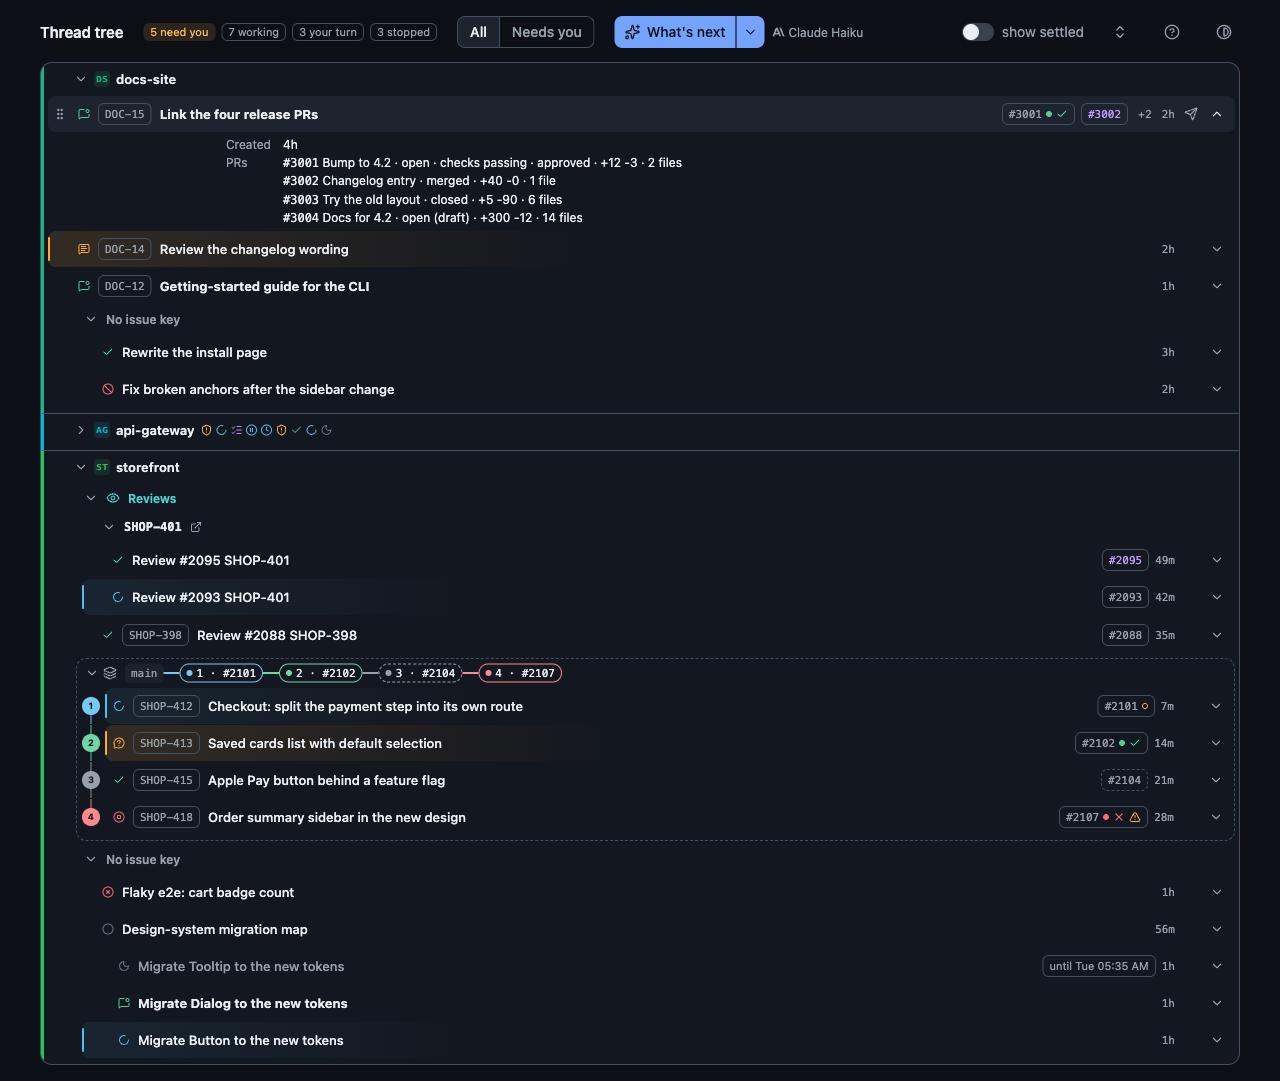
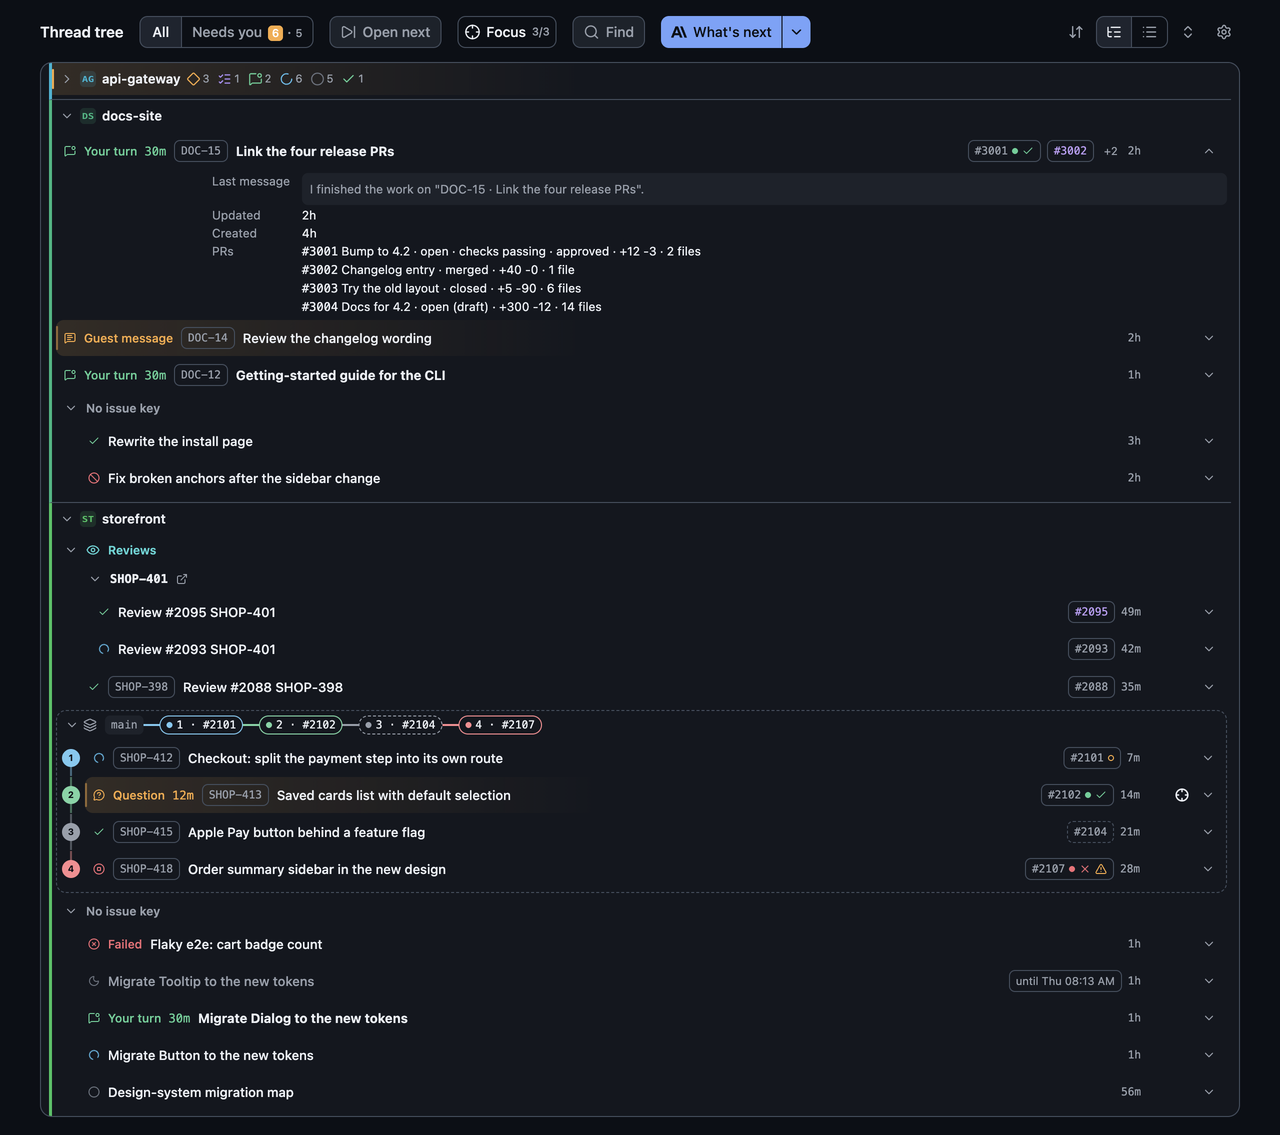
docs: retake README screenshots and name the Settings panel

diff --git a/README.md b/README.md
@@ -8,7 +8,7 @@ T3 Code shows threads as a flat list. When agents launch threads, review PRs and
 
 Use it as a Mac app or in a browser. The Mac app adds a Dock badge, notifications and a menu-bar entry for the threads that need you.
 
-![The thread tree in light mode](docs/tree-light.png)
+![The thread tree in light mode, with three threads in the Focus list](docs/tree-light.png)
 
 ![The thread tree in dark mode, with one project closed and one details block open](docs/tree-dark.png)
 
@@ -18,14 +18,14 @@ _Screenshots use made-up data from `bun run demo`._
 
 - **All projects in one list.** Each project is a block with its name on one header line above its threads, so you see all projects at once. Long thread titles wrap and are never cut, also on a phone. The project has the same icon and color as in T3 Code: two letters on a colored square, and the block has a left edge in that color. Hover the name to see the repository (`owner/name`). Threads group by the first issue key in the title (`SHOP-412`, `API-81`, …). A key group with one thread folds into its row, which shows the key as a chip. Review threads (`Review #…`) go in their own Reviews group. This group always sits at the top of the project, with an eye icon and a teal label, so you find it fast. A closed project or tree group with five or more threads shows a count for each status instead of one icon for each thread. Hover the counts to read them as words.
 - **Header stays in view.** The header stays at the top of the window, and only the list below it scrolls. The header line of the project you scroll through stays at the top of the list.
-- **Launch lineage.** The details block of a thread that an agent launched shows "Launched by" with a link to the thread that launched it. Turn on "Nest launched threads" in the "View" panel to show a launched thread with no issue key under that thread instead of in "No issue key". It is off by default. A thread in a PR stack stays in its stack. T3 does not store this link, so the app reads it from T3's local database.
+- **Launch lineage.** The details block of a thread that an agent launched shows "Launched by" with a link to the thread that launched it. Turn on "Nest launched threads" in the Settings panel to show a launched thread with no issue key under that thread instead of in "No issue key". It is off by default. A thread in a PR stack stays in its stack. T3 does not store this link, so the app reads it from T3's local database.
 - **PR stacks.** Issue groups that share a stack sit together in one block. Its header is a line from the base branch to the top PR, with one stop for each PR, for example `main ─ 1 · #2101 ─ 2 · #2102`. Click a stop to open the PR. Below the header, the threads sit on a numbered line, one number for each stack position. A red stop means failing checks, a conflict or requested changes, green means approved, grey means draft and blue means open. When the tree does not show all PRs of a stack, for example under a filter, each stop shows its position in the whole stack, such as `2 of 4 · #2102`. Click the chevron to fold the block to its header.
 - **PR marks.** Each row shows its first two PRs. A PR chip shows checks (dot or ring), review (check or cross), conflicts (warning), draft (dashed border), merged (violet) and closed (struck through).
 - **Your own order.** Drag the handle on the left edge of a project, group or thread row to move it in its list (only in "Manual" sort; the Flat view has its own order), or use Space and the arrow keys. The handle shows when the pointer is on the row. A row moves out of the way as soon as the dragged row enters it a little, also when the row is tall. A PR stack moves as one block. The order stays after a reload, and "Reset order" clears it.
 - **Sort by last updated.** The sort button in the header opens a menu: "Manual" or "Last updated". "Last updated" puts the thread with the newest run start or run end first. Subthreads count for their parent. Projects keep their order. Reviews stays first and "No issue key" stays last. A PR stack moves as one block. Subthreads keep their order. Drag is off. When a run starts or ends, the rows slide to their new place. With reduced motion, they move at once. The choice stays after a reload.
 - **Focus list.** The "Focus" button in the header shows or hides a strip of up to three threads above the tree. It shows how many threads are in the list, for example `2/3`. Add a thread with the crosshair button in its row, with the crosshair button of an Action in the "What's next" brief, or drag the row by its handle onto an empty slot. Drop a row on a filled card to replace it: the card asks first. Each card shows the status, the wait, the title, an "Open" link and "Show in tree", which scrolls to the row and flashes it. "Show in tree" opens the folds on the way to the row first. When the filter hides the row, the button says so. The list holds three threads, so at three the add buttons are disabled. A thread that settles or is deleted leaves the list. The list and the strip choice stay after a reload.
 - **Find.** The "Find" button in the header, or Cmd+K (Ctrl+K off macOS), opens a search for any loaded thread. Type words to match the title, the issue key, the project, the branch or a PR number. Every word must match. Matches in the issue key or at the start of the title come first. Press Enter or click a result to open the thread in T3 Code. Press Shift+Enter, or click the locate button in the row, to close the search, open the folds on the way and scroll to the row. A thread that the filter or the snooze setting hides has no locate button. With no query, the search lists your Focus threads and the latest updated threads. When "Show settled threads" is off, "Search settled threads" adds the settled threads that match. At phone width, the search fills the screen.
-- **Keys.** `n` opens the next thread, `1` to `3` open the thread in that Focus slot, and Cmd+K (Ctrl+K off macOS) opens Find. Cmd+K works in a field too. `j` and `k` move the focus to the next or previous thread row or fold header, and the arrow keys do the same when a row or header has focus. A ring shows the focused row. Enter opens a thread or folds a header, `o` opens or closes the details of a thread or the fold of a header, `l` opens them and `h` closes them, and `s` opens Send for a thread. The focus stays on its row while the list updates, and moves to the header when its fold closes. The other keys do nothing while you type in a field, or while a dialog, a menu or the "View" panel is open. The "Keys" fold in the "View" panel lists them.
+- **Keys.** `n` opens the next thread, `1` to `3` open the thread in that Focus slot, and Cmd+K (Ctrl+K off macOS) opens Find. Cmd+K works in a field too. `j` and `k` move the focus to the next or previous thread row or fold header, and the arrow keys do the same when a row or header has focus. A ring shows the focused row. Enter opens a thread or folds a header, `o` opens or closes the details of a thread or the fold of a header, `l` opens them and `h` closes them, and `s` opens Send for a thread. The focus stays on its row while the list updates, and moves to the header when its fold closes. The other keys do nothing while you type in a field, or while a dialog, a menu or the Settings panel is open. The "Keys" fold in the Settings panel lists them.
 - **Open next.** The "Open next" button in the header opens in T3 Code the thread that has waited longest: a thread that needs input, has a plan ready or waits for your turn, settled threads left out, subthreads included. Press it again to open the next thread. After all threads were opened, it starts again at the top. A thread that starts a new wait is a target again. The key `n` does the same. The tooltip shows the status, the title and the Wait of the target. When nothing waits, the button is disabled. At phone width, the button shows its icon only. In the Mac app, the menu-bar menu starts with "Open next · <title>", which opens the same thread.
 - **Flat view.** The Tree and Flat buttons in the header switch the layout. Flat shows all threads of all projects in one list.
   - "Group by Status" sections fold. "Idle and snoozed" and "Done" start closed. A closed section keeps its count.
@@ -43,7 +43,7 @@ _Screenshots use made-up data from `bun run demo`._
 - **Rows come and go.** A new project, group or thread grows in. A removed one collapses out. A change that arrives during a drag shows at once. With reduced motion, rows appear and disappear at once.
 - **Fold all at once.** In the tree, the button in the header closes or opens all projects, groups and PR stacks. A project or group row with groups or PR stacks in it has its own button at its end (shown on hover): it closes all rows in it, or opens the row and all rows in it. The icon morphs between the two arrow pairs.
 - **Folds slide.** A project, group, PR stack or details panel slides open and shut, and its chevron turns. With reduced motion, it opens and shuts at once.
-- **Status at a glance.** Each row starts with one status icon, so the issue key and title start close to it. Each kind of status has its own icon: for example, a shield for an approval, a question bubble for a question, and a chat bubble with a dot for "your turn" (a result you did not open yet). Rows that wait on you show the phrase and the wait beside the icon, for example "Approval 12m", "Plan ready 30m" or "Your turn 30m". A failed row shows "Failed". Hover the icon to see the phrase and the elapsed time, for example "Working 12m". The details show when the thread was last updated. The "View" panel has a legend of all icons. Color is never the only sign.
+- **Status at a glance.** Each row starts with one status icon, so the issue key and title start close to it. Each kind of status has its own icon: for example, a shield for an approval, a question bubble for a question, and a chat bubble with a dot for "your turn" (a result you did not open yet). Rows that wait on you show the phrase and the wait beside the icon, for example "Approval 12m", "Plan ready 30m" or "Your turn 30m". A failed row shows "Failed". Hover the icon to see the phrase and the elapsed time, for example "Working 12m". The details show when the thread was last updated. The Settings panel has a legend of all icons. Color is never the only sign.
 
   | Color                | Statuses                                                            |
   | -------------------- | ------------------------------------------------------------------- |
@@ -58,22 +58,23 @@ _Screenshots use made-up data from `bun run demo`._
 - **Details on demand.** The chevron at the end of a row opens a details block: request, error, the end of the last message, usage limit, model, branch, worktree, launched by, goal, tags and all PRs with their checks and size.
 - **Settings panel.** The cog in the header opens Settings on the right. The tree stays visible next to it, so you see each change at once. To close the panel, click outside it, click the close button, or press Escape. Each field tells you what to type and where to find it.
   - **Updates.** In the desktop app, this group comes first. It shows the app version and the update state. The panel checks for a new version each time it opens, but not more than once in 60 s. A button updates the app in place and shows the progress.
-  - **View.** Rows that stay open: show settled threads, nest launched threads, reset the drag-and-drop order, and the theme (Light, System or Dark, as icons).
+  - **View.** Rows that stay open: show settled threads, show snoozed threads, nest launched threads, reset the drag-and-drop order, and the theme (Light, System or Dark, as icons).
   - **Setup.** Folds that stay closed until you open them. Each fold shows its state at the right: green text when it is set, yellow text with a warning sign when it is not set.
     - **T3 token.** A password field for the token, with the command that issues one. Paste a new token at any time to replace it. The app saves it and reconnects, with no restart. When the token is missing or T3 rejects it, a banner shows with a link that opens the panel with this fold open.
     - **Linear links.** Type your Linear workspace, and issue keys link to their issue. Add team keys to link only the keys of those teams.
     - **Status icons.** A legend of all icons, shown with a blue info icon.
+    - **Keys.** A list of the page keys, shown with a blue info icon.
 - **Live.** Changes arrive as T3 streams them. No polling, no reload.
 - **The page remembers your choices.** Closed projects and groups (they show one status icon per thread, and an amber wash with a breathing edge when a hidden thread needs input or has a plan ready), the filter, "show settled", "show snoozed", the folds of the flat sections and the theme stay after a reload.
-- **Settled threads on demand.** The "Show settled threads" switch in the "View" panel adds them. Archived threads never show.
-- **Snoozed threads on demand.** The "Show snoozed threads" switch in the "View" panel hides snoozed threads. A snoozed thread with a visible subthread stays, muted. The Needs-you count does not change.
+- **Settled threads on demand.** The "Show settled threads" switch in the Settings panel adds them. Archived threads never show.
+- **Snoozed threads on demand.** The "Show snoozed threads" switch in the Settings panel hides snoozed threads. A snoozed thread with a visible subthread stays, muted. The Needs-you count does not change.
 - **What's next.** A click on "What's next" shows a ranked list of next steps over the active threads, each with links to its threads. Code makes the obvious steps at once: answer a waiting agent, fix a PR with failing checks, conflicts or requested changes, and merge an approved PR. A local `claude` or `codex` CLI on a cheap model ranks the rest, and it does not run when nothing is left. A step can have a prompt that you copy with one click. It also has a send icon that opens a dialog with a thread picker, the end of the last message of the picked thread, and the editable prompt. When the picked thread waits for an approval, the dialog shows the same approval note. "Confirm send" sends the message to the thread, and the step then shows "Sent to" with the thread name. The send icon is off when no `t3` CLI is found. A step with a prompt also has a "Start thread" icon. It opens a dialog with a project picker, a title (the issue key and the step title), and the editable prompt. "Start thread" starts a new thread in that project with the prompt as its first message, and the thread then shows in the tree. This icon is also off when no `t3` CLI is found. The chevron next to the button opens a menu that selects the model. Each option shows its provider icon. The button shows the selected provider icon. The icon changes shape when you select a different provider. With reduced motion, the icon changes at once. The button shows a list icon when no provider is selected. At phone width, the button shows only its icon, and the model menu is hidden. A thread that is no longer active shows struck through.
 - **Send from a row.** Each thread row, top-level or subthread, has a send icon at its end. It shows on hover or focus, and always on touch screens. It opens the same dialog with that thread as the fixed target and an empty message. The dialog shows the end of the last message of the target thread. When the thread waits for an approval, a note says that a message does not approve the request. The icon is off when no `t3` CLI is found. The row status changes when the thread takes the message.
 - **Dock badge.** In the desktop app, the Dock icon shows how many threads need you (needs input or plan ready), the same count as the Needs-you badge in the header. Settled threads do not count, so with "show settled" on, the badge can be lower than the filter count. It updates with the window hidden, and it does not clear when you open the window.
 - **Notifications.** In the desktop app, you get a notification when a thread starts to need input, has a plan ready or fails. When 3 or more threads change at once, you get one notification, "N threads need you". A click on a thread notification opens the thread in T3 Code. A click on the summary shows the window. A new notification for a thread replaces the earlier one. Nothing is sent for the threads that already need you when the app starts, or for settled threads. "Mute Notifications" in the app menu turns them off. The badge stays on.
 - **Menu-bar entry.** The menu-bar icon shows the Needs-you count, and shows no number at 0. Its menu starts with "Open next · <title>" when a thread waits, then lists up to 10 threads, longest wait first. A click on a thread opens it in T3 Code. "+N more…" and "Open tree" show the window. "Mute Notifications" is the same switch as in the app menu. When a newer release exists, "Update available: vX.Y.Z…" shows below it, and a click offers the update. The label shows the stage while an update installs. "Quit" quits the app.
 - **Desktop window.** The tree runs in its own macOS window, which you start from Spotlight or the Dock. The app starts the server for you. Closing the window hides it, and the tree keeps running. A click on the Dock icon shows it again, and Cmd-Q quits. The window opens at its last size and place. Links to T3 Code and to PRs open outside the window.
-- **Updates.** The Mac app checks GitHub Releases at start and every 6 hours. When a newer release exists, the app menu and the menu-bar menu show "Update available: vX.Y.Z…", and the "View" button has a dot. Until then, both menus show "Check for Updates…". A click on the menu item checks now and shows the result in a dialog. The "View" panel shows the same state and has an "Update and restart" button. The update downloads, unpacks and puts the new version in place of the installed app, then opens it. The panel shows each stage and the download percent. While it runs, the "View" button shows a progress ring, the Dock icon shows a progress bar during the download, and the menus show the stage, for example "Downloading Update… 42%". The new version then shows a dialog with what changed, from the release notes, and a button that opens the release page. If the app cannot update itself (for example, when it does not run from the Applications folder), the panel and the dialog offer the release page. After a failed update, the menus show "Update Failed: Open Release Page…".
+- **Updates.** The Mac app checks GitHub Releases at start and every 6 hours. When a newer release exists, the app menu and the menu-bar menu show "Update available: vX.Y.Z…", and the Settings cog has a dot. Until then, both menus show "Check for Updates…". A click on the menu item checks now and shows the result in a dialog. The Settings panel shows the same state and has an "Update and restart" button. The update downloads, unpacks and puts the new version in place of the installed app, then opens it. The panel shows each stage and the download percent. While it runs, the Settings cog shows a progress ring, the Dock icon shows a progress bar during the download, and the menus show the stage, for example "Downloading Update… 42%". The new version then shows a dialog with what changed, from the release notes, and a button that opens the release page. If the app cannot update itself (for example, when it does not run from the Applications folder), the panel and the dialog offer the release page. After a failed update, the menus show "Update Failed: Open Release Page…".
 
 ## Requirements
 
@@ -88,7 +89,7 @@ _Screenshots use made-up data from `bun run demo`._
 bun install
 ```
 
-Start the app, open the "View" panel and paste a T3 token in the "T3 token" field. The panel shows the command that issues one. The app keeps the token in `~/.config/t3-thread-tree/token`, and the desktop app in `~/Library/Application Support/T3 Thread Tree/token`. A `T3_TOKEN` in `.env` still works as the fallback when no token is saved.
+Start the app, click the cog to open the Settings panel, and paste a T3 token in the "T3 token" field. The panel shows the command that issues one. The app keeps the token in `~/.config/t3-thread-tree/token`, and the desktop app in `~/Library/Application Support/T3 Thread Tree/token`. A `T3_TOKEN` in `.env` still works as the fallback when no token is saved.
 
 Optional: link Linear issue keys. Set them in the page settings, or add these to `.env`. The page setting wins over `.env`.
 
